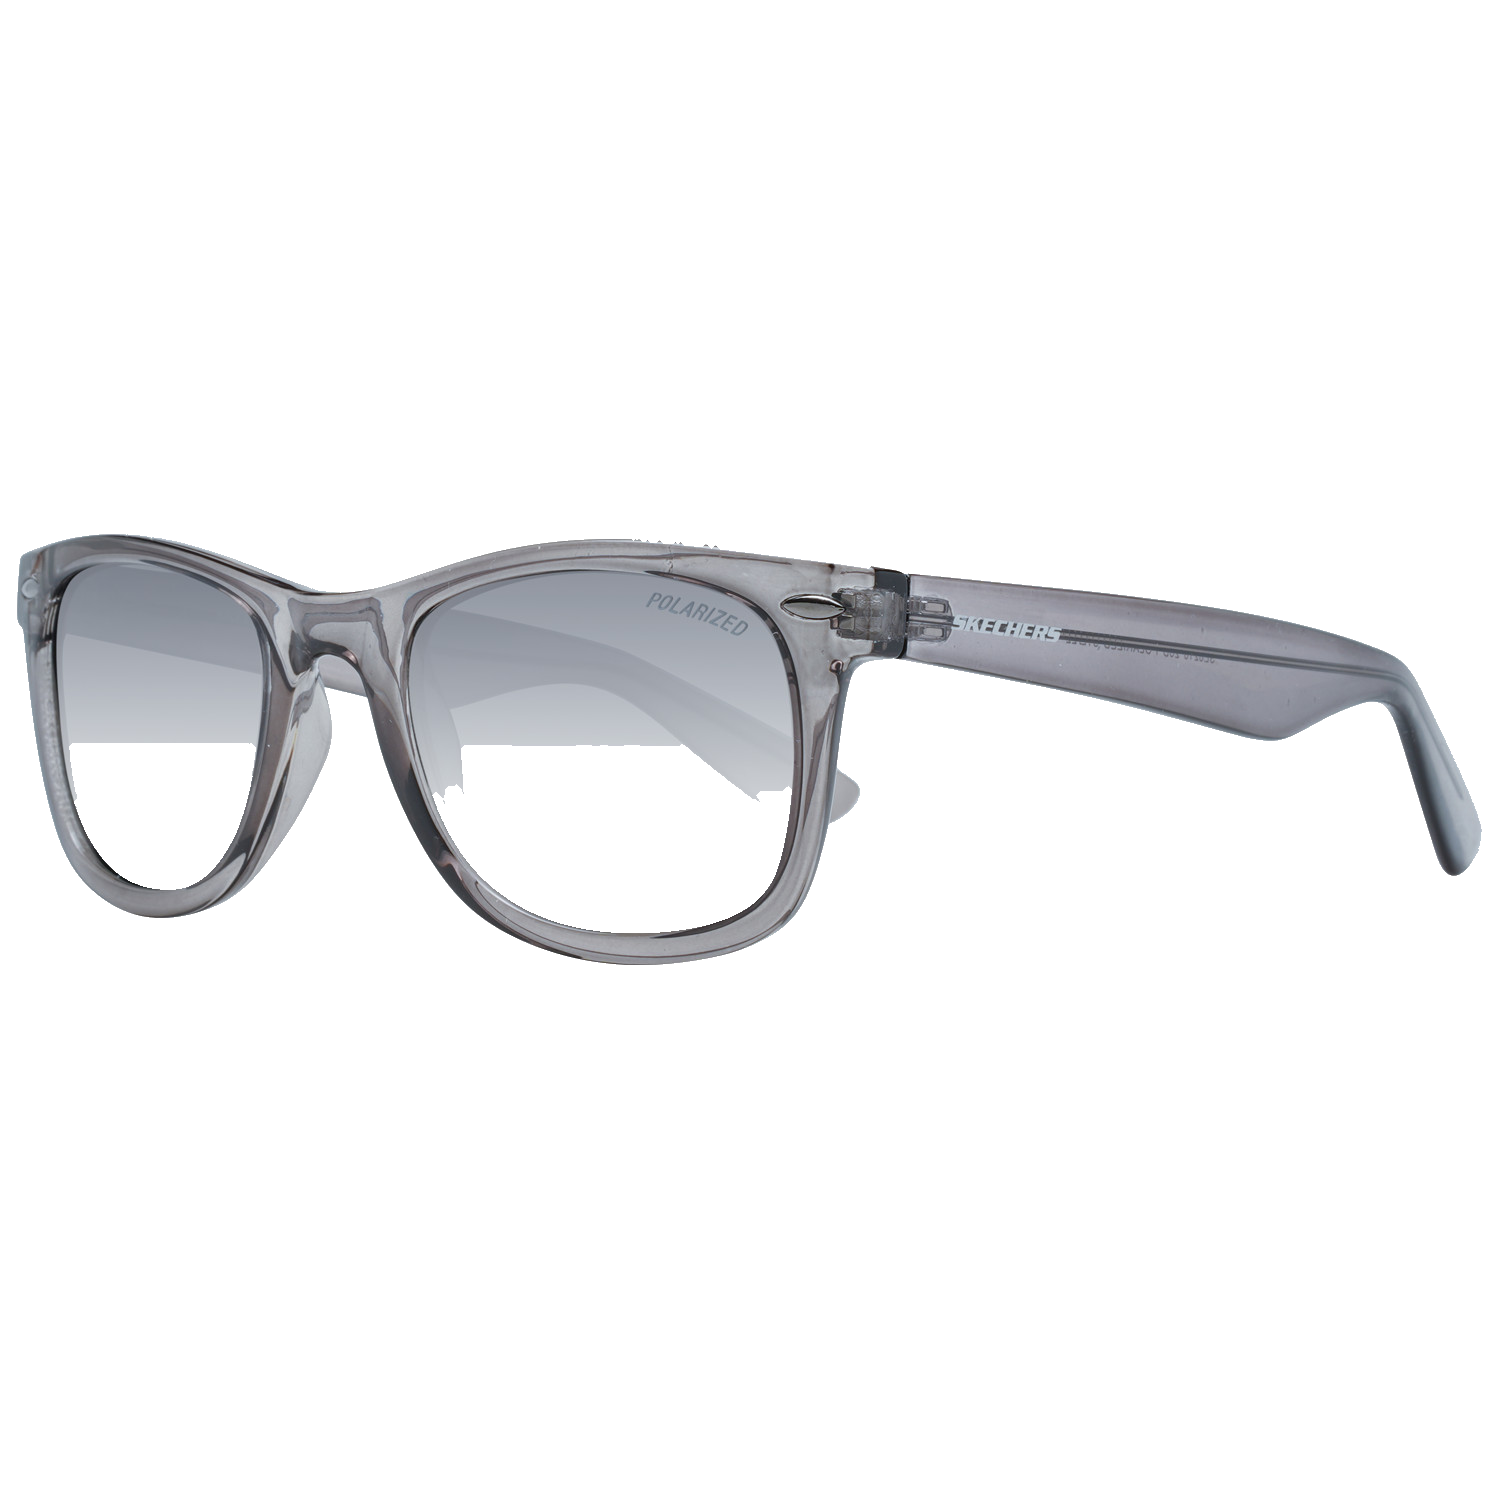
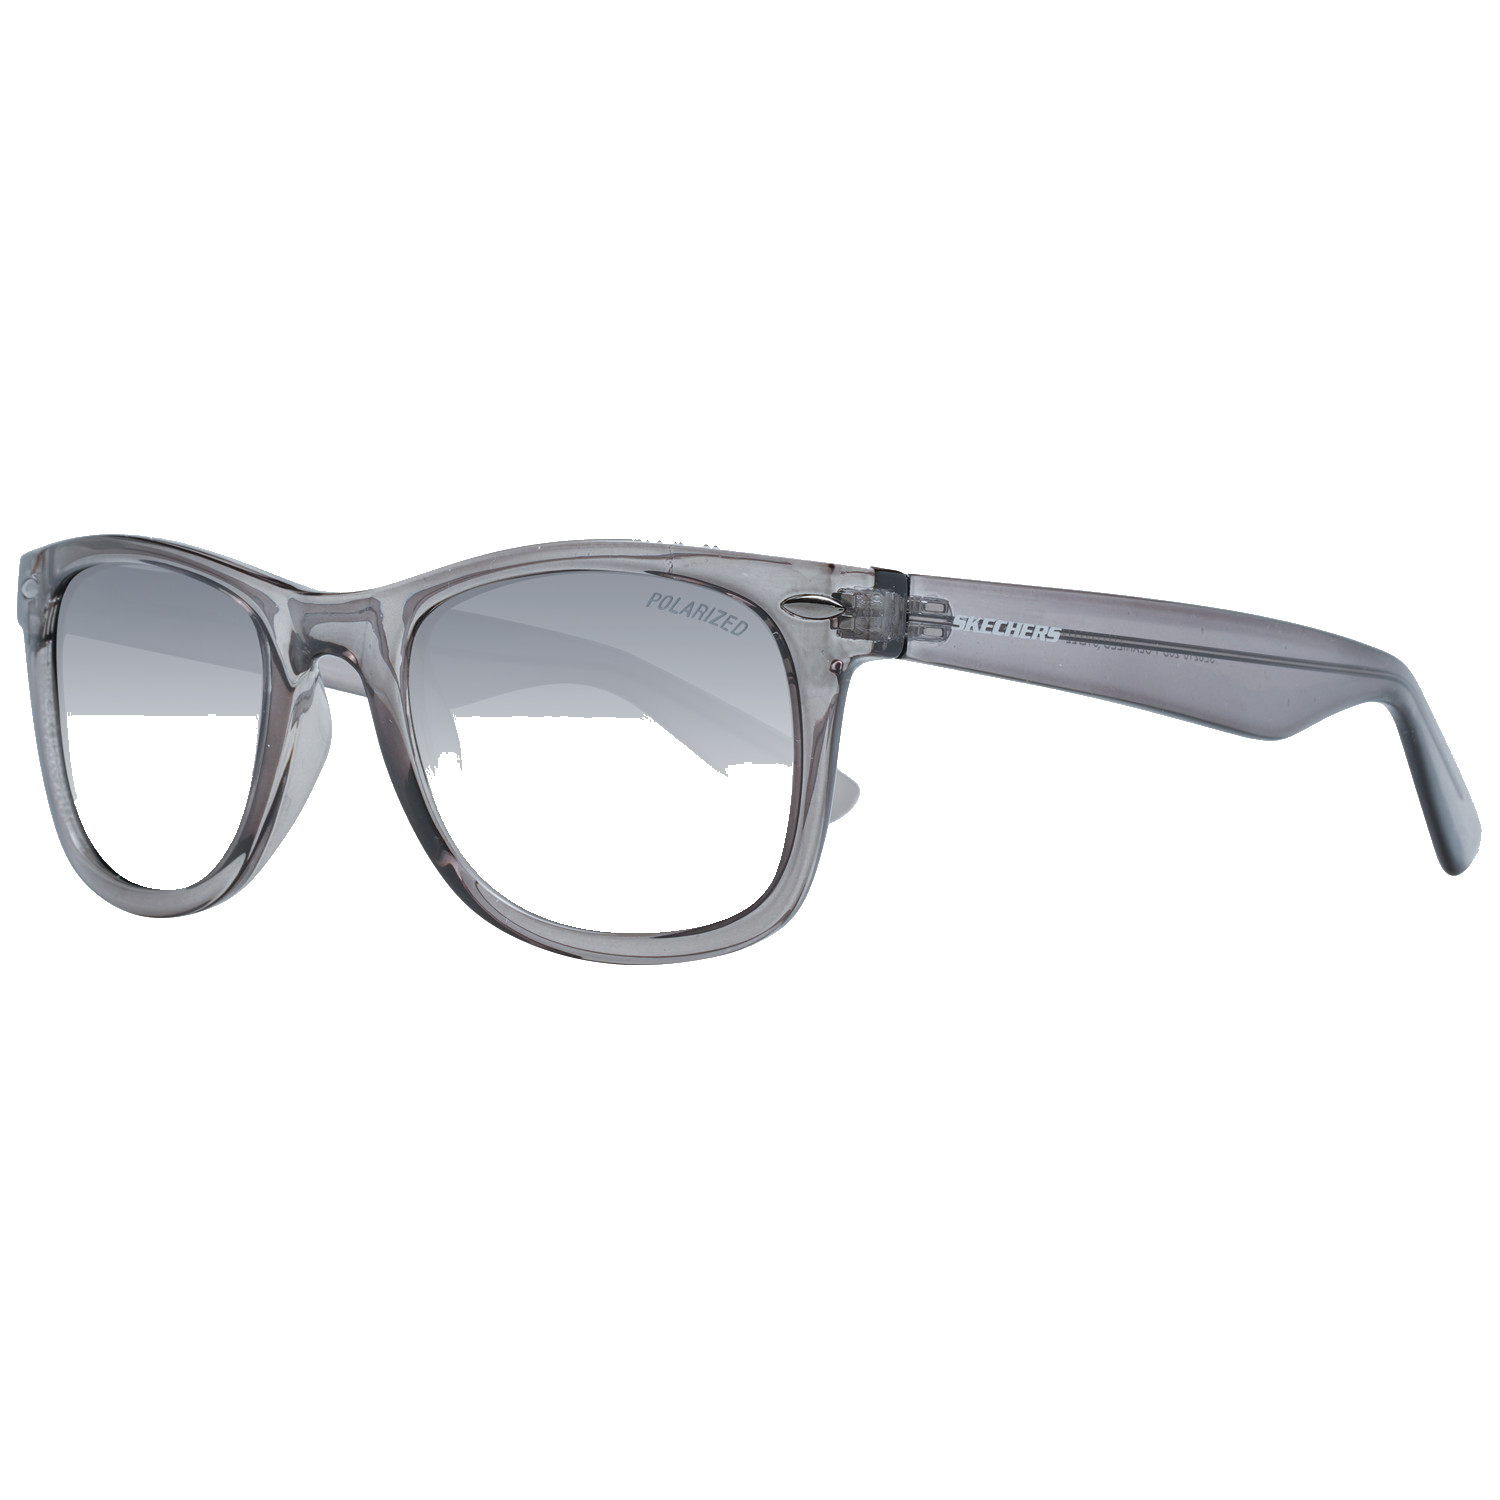
Improve lens clearing: pass-2 near-white opaque blob detection

Changed region(s): [[0.276, 0.46, 0.46, 0.552], [0.0307, 0.46, 0.184, 0.5213], [0.4907, 0.4907, 0.5213, 0.552]]

diff --git a/preprocess.py b/preprocess.py
@@ -66,35 +66,63 @@ def detect_hinges(opaque: np.ndarray) -> tuple[int, int]:
 
 def fill_lens_holes(rgba: np.ndarray, left_h: int, right_h: int) -> int:
     """
-    Use RETR_CCOMP contour hierarchy to find enclosed transparent regions
-    inside the frame ring.  Those are lens holes that may have been left
-    partially opaque by the morphological close step.  Make them transparent.
-    Returns number of pixels cleared.
+    Two-pass lens-hole clearing:
+
+    Pass 1 (RETR_CCOMP): find transparent holes enclosed by the opaque frame
+    ring – handles the normal case where HSV removal already cleared the lens.
+
+    Pass 2 (light-color blobs): find large, near-white *opaque* regions that
+    are fully enclosed inside the image (don't touch the border) and whose
+    centre falls within the hinge x-range.  These are clear-lens pixels that
+    survived the HSV threshold (e.g. slight anti-reflective coating tint).
+
+    Returns total pixels cleared.
     """
     h, w = rgba.shape[:2]
-    opaque_u8 = (rgba[:, :, 3] > 128).astype(np.uint8) * 255
+    min_area = (right_h - left_h) * h * 0.003   # 0.3 % of frame bbox
+    lens_mask = np.zeros((h, w), dtype=np.uint8)
 
+    # --- Pass 1: transparent holes in the opaque mask ---
+    opaque_u8 = (rgba[:, :, 3] > 128).astype(np.uint8) * 255
     contours, hierarchy = cv2.findContours(
         opaque_u8, cv2.RETR_CCOMP, cv2.CHAIN_APPROX_SIMPLE
     )
-    if hierarchy is None or len(contours) == 0:
-        return 0
+    if hierarchy is not None and len(contours) > 0:
+        hier = hierarchy[0]
+        for i, h_info in enumerate(hier):
+            if h_info[3] < 0:
+                continue  # outer contour, not a hole
+            area = cv2.contourArea(contours[i])
+            if area < min_area:
+                continue
+            x, y, cw, ch = cv2.boundingRect(contours[i])
+            if left_h <= (x + cw // 2) <= right_h:
+                cv2.drawContours(lens_mask, [contours[i]], -1, 255, cv2.FILLED)
 
-    hierarchy = hierarchy[0]
-    min_area = (right_h - left_h) * h * 0.005   # 0.5% of frame area
+    # --- Pass 2: opaque near-white enclosed blobs (residual lens material) ---
+    img_bgr = cv2.cvtColor(rgba[:, :, :3], cv2.COLOR_RGB2BGR)
+    hsv     = cv2.cvtColor(img_bgr, cv2.COLOR_BGR2HSV)
+    _, s, v = cv2.split(hsv)
 
-    lens_mask = np.zeros((h, w), dtype=np.uint8)
-    for i, h_info in enumerate(hierarchy):
-        parent = h_info[3]
-        if parent < 0:
-            continue  # outer contour, not a hole
-        area = cv2.contourArea(contours[i])
+    opaque_bool = rgba[:, :, 3] > 128
+    near_white  = (v > 200) & (s < 40)          # very bright, nearly colourless
+    candidate   = (opaque_bool & near_white).astype(np.uint8)
+
+    num_labels, labels, stats, _ = cv2.connectedComponentsWithStats(
+        candidate, connectivity=8
+    )
+    for lbl in range(1, num_labels):
+        area = int(stats[lbl, cv2.CC_STAT_AREA])
         if area < min_area:
             continue
-        x, y, cw, ch = cv2.boundingRect(contours[i])
-        cx = x + cw // 2
-        if left_h <= cx <= right_h:
-            cv2.drawContours(lens_mask, [contours[i]], -1, 255, cv2.FILLED)
+        cx_comp = int(stats[lbl, cv2.CC_STAT_LEFT] + stats[lbl, cv2.CC_STAT_WIDTH] // 2)
+        if not (left_h <= cx_comp <= right_h):
+            continue
+        comp = (labels == lbl).astype(np.uint8)
+        # Skip components that touch the image boundary (outer background remnant)
+        if comp[0].any() or comp[-1].any() or comp[:, 0].any() or comp[:, -1].any():
+            continue
+        lens_mask = cv2.bitwise_or(lens_mask, comp * 255)
 
     count = int((lens_mask > 0).sum())
     if count > 0:
